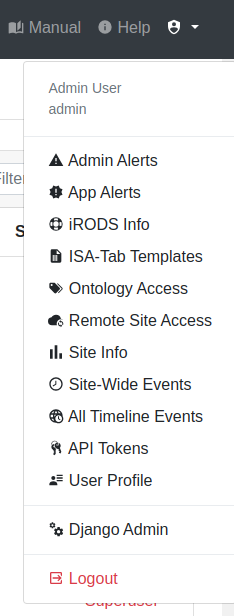
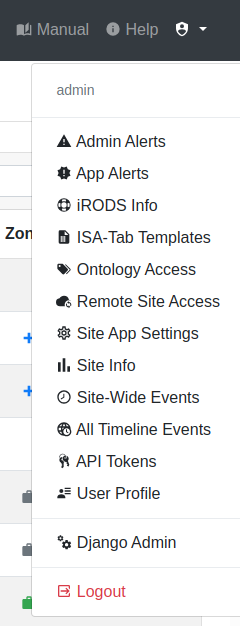
update docs for django-sodar-core v1.1 (#2051)

diff --git a/docs_manual/source/ui_project_members.rst b/docs_manual/source/ui_project_members.rst
@@ -134,8 +134,10 @@ list and remove the role from a parent category.
 Modifying the project owner works slightly differently. In the dropdown next to
 the owner in the member list, you will see a :guilabel:`Transfer Ownership`
 option. This will present you a form where you can select a new owner from the
-current project members as well as select a new role for the current owner. This
-functionality is only available for users currently set as the project owner.
+current project members as well as select a new role for the current owner. If
+the old owner's role is set to "remove role", they will be removed from the
+category or project. The ownership tranfer functionality is only available for
+users currently set as the project owner.
 
 .. figure:: _static/sodar_ui/project_members_owner.png
     :align: center
@@ -171,3 +173,23 @@ your existing invitations, navigate to the member list, open the
 :guilabel:`Member Operations` dropdown and select :guilabel:`View Invites`. Note
 that invitations will expire after a certain time specified by SODAR
 administrators.
+
+
+Leaving a Project
+=================
+
+To leave a project, click the :guilabel:`Leave Project` button, or the
+corresponding :guilabel:`Leave Category` button for a category. This will remove
+your access to the project in SODAR and iRODS.
+
+If you have inherited roles in any child categories or projects, access to them
+will also be removed unless they have been promoted to a higher level local role
+within any of those children.
+
+An owner can not leave a project directly. Instead, you will need to click
+:guilabel:`Transfer Ownership` and assign the owner role to another user.
+
+.. note::
+
+    Once you have left a category or project, you can not rejoin in unless an
+    owner or a delegate grants you a new role.

diff --git a/docs_manual/source/ui_index.rst b/docs_manual/source/ui_index.rst
@@ -57,12 +57,16 @@ User Icon
 Home
     Click this to return to this home view.
 Available Projects
-    The list of categories and projects to which you have access. The list
-    columns contain shortcuts for creating or accessing landing zones, browsing
-    the project's sample data via WebDAV, and viewing or importing sample sheets
-    into a project.
+    A paginated list of categories and projects to which you have access. The
+    list columns contain shortcuts for creating or accessing landing zones,
+    browsing the project's sample data via WebDAV, and viewing or importing
+    sample sheets into a project.
 Starred Button
     Filter projects to those that you have favourited by clicking on the star
     icon in the project views.
+Page Dropdown
+    Choose how many categories and projects are displayed on each page of the
+    list. This value will be saved for subsequent visits to the site. Pagination
+    controls will appear on the bottom of the list.
 Filter
     Filter projects and categories to those containing a search string.

diff --git a/docs_manual/source/ui_project_update.rst b/docs_manual/source/ui_project_update.rst
@@ -125,3 +125,24 @@ member roles.
 .. note::
 
     Archiving categories is not currently supported.
+
+
+Project Deletion
+================
+
+A category or a project can be deleted by clicking the :guilabel:`Delete`
+button. This takes you to a confirmation view where you must input the host name
+of your SODAR instance to proceed.
+
+Cascading deletion is not supported. In order to delete a category with child
+categories or projects, the children need to be individually deleted. This is
+done to prevent accidental data loss.
+
+Deleting a project will also delete its :ref:`Timeline <ui_project_timeline>`
+events. Deletion creates a summary Timeline event, which is viewable by
+superusers in the :guilabel:`Site-Wide Events` view.
+
+.. danger::
+
+    Deleting a project will delete all of its data including sample sheets,
+    iRODS sample data and landing zones. This operation can **not** be undone!

diff --git a/docs_manual/source/admin_upgrade.rst b/docs_manual/source/admin_upgrade.rst
@@ -32,6 +32,26 @@ All instructions assume you are running the previous major release of SODAR
 before performing the upgrade.
 
 
+.. _admin_upgrade_v1.1:
+
+v1.1
+====
+
+This release requires at least the following versions of SODAR
+environment components:
+
+- `sodar-docker-compose <https://github.com/bihealth/sodar-docker-compose>`_ ``1.1-1``
+- `irods-docker <https://github.com/bihealth/irods-docker>`_ ``4.3.3-2``
+- `davrods-docker <https://github.com/bihealth/davrods-docker>`_ ``4.3.3_1.5.1-1``
+
+.. warning::
+
+    To deploy SODAR v1.1 on top of an existing deployment, you **must** first
+    deploy SODAR v1.0. This means you can **not** upgrade directly from e.g.
+    v0.15 straight to v1.1. Doing so risks a database migration failure. This is
+    due to squashed migrations removed in v1.1.
+
+
 .. _admin_upgrade_v1.0:
 
 v1.0

diff --git a/docs_manual/source/api_projectroles.rst b/docs_manual/source/api_projectroles.rst
@@ -20,11 +20,11 @@ Versioning
 Media Type
     ``application/vnd.bihealth.sodar-core.projectroles+json``
 Current Version
-    ``1.0``
+    ``1.1``
 Accepted Versions
-    ``1.0``
+    ``1.0``, ``1.1``
 Header Example
-    ``Accept: application/vnd.bihealth.sodar-core.projectroles+json; version=1.0``
+    ``Accept: application/vnd.bihealth.sodar-core.projectroles+json; version=1.1``
 
 API Views
 ---------
@@ -46,11 +46,11 @@ Versioning
 Media Type
     ``application/vnd.bihealth.sodar-core.timeline+json``
 Current Version
-    ``1.0``
+    ``2.0``
 Accepted Versions
-    ``1.0``
+    ``2.0``
 Header Example
-    ``Accept: application/vnd.bihealth.sodar-core.timeline+json; version=1.0``
+    ``Accept: application/vnd.bihealth.sodar-core.timeline+json; version=2.0``
 
 API Views
 ---------

diff --git a/docs_manual/source/admin_site_app_settings.rst b/docs_manual/source/admin_site_app_settings.rst
@@ -1,0 +1,22 @@
+.. _admin_site_app_settings:
+
+Site App Settings Application
+^^^^^^^^^^^^^^^^^^^^^^^^^^^^^
+
+This application enables changing site-wide app settings which affect the entire
+site. These settings are not project or user specific.
+
+.. figure:: _static/admin/site_app_settings.png
+    :align: center
+    :scale: 55%
+
+    Site App Settings view
+
+Currently available settings:
+
+Site read-only mode
+    This sets the entire site into a read-only mode. No data including project
+    metadata, sample sheets or landing zones can be modified, except by
+    superusers. Previously started landing zone jobs will be allowed to finish.
+    The users will receive a UI notification about the enabling and disabling of
+    the read-only mode.

diff --git a/docs_manual/source/api_examples.rst b/docs_manual/source/api_examples.rst
@@ -41,7 +41,7 @@ the SODAR API:
     # Token authorization header (required)
     auth_header = {'Authorization': 'token {}'.format(api_token)}
     # Use project_headers for project management API endpoints
-    project_headers = {**auth_header, 'Accept': 'application/vnd.bihealth.sodar-core.projectroles+json; version=1.0'}
+    project_headers = {**auth_header, 'Accept': 'application/vnd.bihealth.sodar-core.projectroles+json; version=1.1'}
     # Use the following headers for sample sheet and landing zone API endpoints
     sheet_headers = {**auth_header, 'Accept': 'application/vnd.bihealth.sodar.samplesheets+json; version=1.0'}
     zone_headers = {**auth_header, 'Accept': 'application/vnd.bihealth.sodar.landingzones+json; version=1.0'}

diff --git a/docs_manual/source/admin_ui.rst b/docs_manual/source/admin_ui.rst
@@ -52,6 +52,8 @@ These new applications are as follows:
 `Remote Site Access <https://sodar-core.readthedocs.io/en/latest/app_projectroles_usage.html#remote-projects>`_
     Synchronize projects and their member roles between multiple SODAR Core
     based sites.
+:ref:`Site App Settings <admin_site_app_settings>`
+    View for modifying site-wide app settings intended to be changed at runtime.
 `Site Info <https://sodar-core.readthedocs.io/en/latest/app_siteinfo.html#usage>`_
     Display information related to this SODAR instance, including statistics,
     enabled applications and back-end server settings.

diff --git a/docs_manual/source/ui_alerts.rst b/docs_manual/source/ui_alerts.rst
@@ -66,7 +66,8 @@ SODAR administrators can issue alert messages to all users. Admin alerts can
 be used to inform users about e.g. upcoming downtime. These alerts are visible
 as a permanent blue bar which can not be dismissed. Some alerts can contain
 additional detailed information, which can be accessed by the
-:guilabel:`Details` link.
+:guilabel:`Details` link. By default, administrator alerts are also sent out to
+users as email.
 
 .. figure:: _static/sodar_ui/alert_admin.png
     :align: center

diff --git a/docs_manual/source/admin_commands.rst b/docs_manual/source/admin_commands.rst
@@ -29,6 +29,9 @@ These commands originate in SODAR Core. More information can be found in the
 ``geticons``
     Download and install the latest versions of iconify icon sets. Must be
     followed by ``collectstatic`` to take effect.
+``removeroles``
+    Remove all roles from a user. Useful when e.g. a user has left the
+    organization. Replaces user's owner roles with another given user.
 ``synccache``
     Synchronize the SODAR Cache.
 ``syncgroups``

diff --git a/docs_manual/source/index.rst b/docs_manual/source/index.rst
@@ -133,6 +133,7 @@ Table of Contents
     admin_ui
     admin_isatemplates
     admin_ontologyaccess
+    admin_site_app_settings
     admin_commands
     admin_settings
     admin_custom
